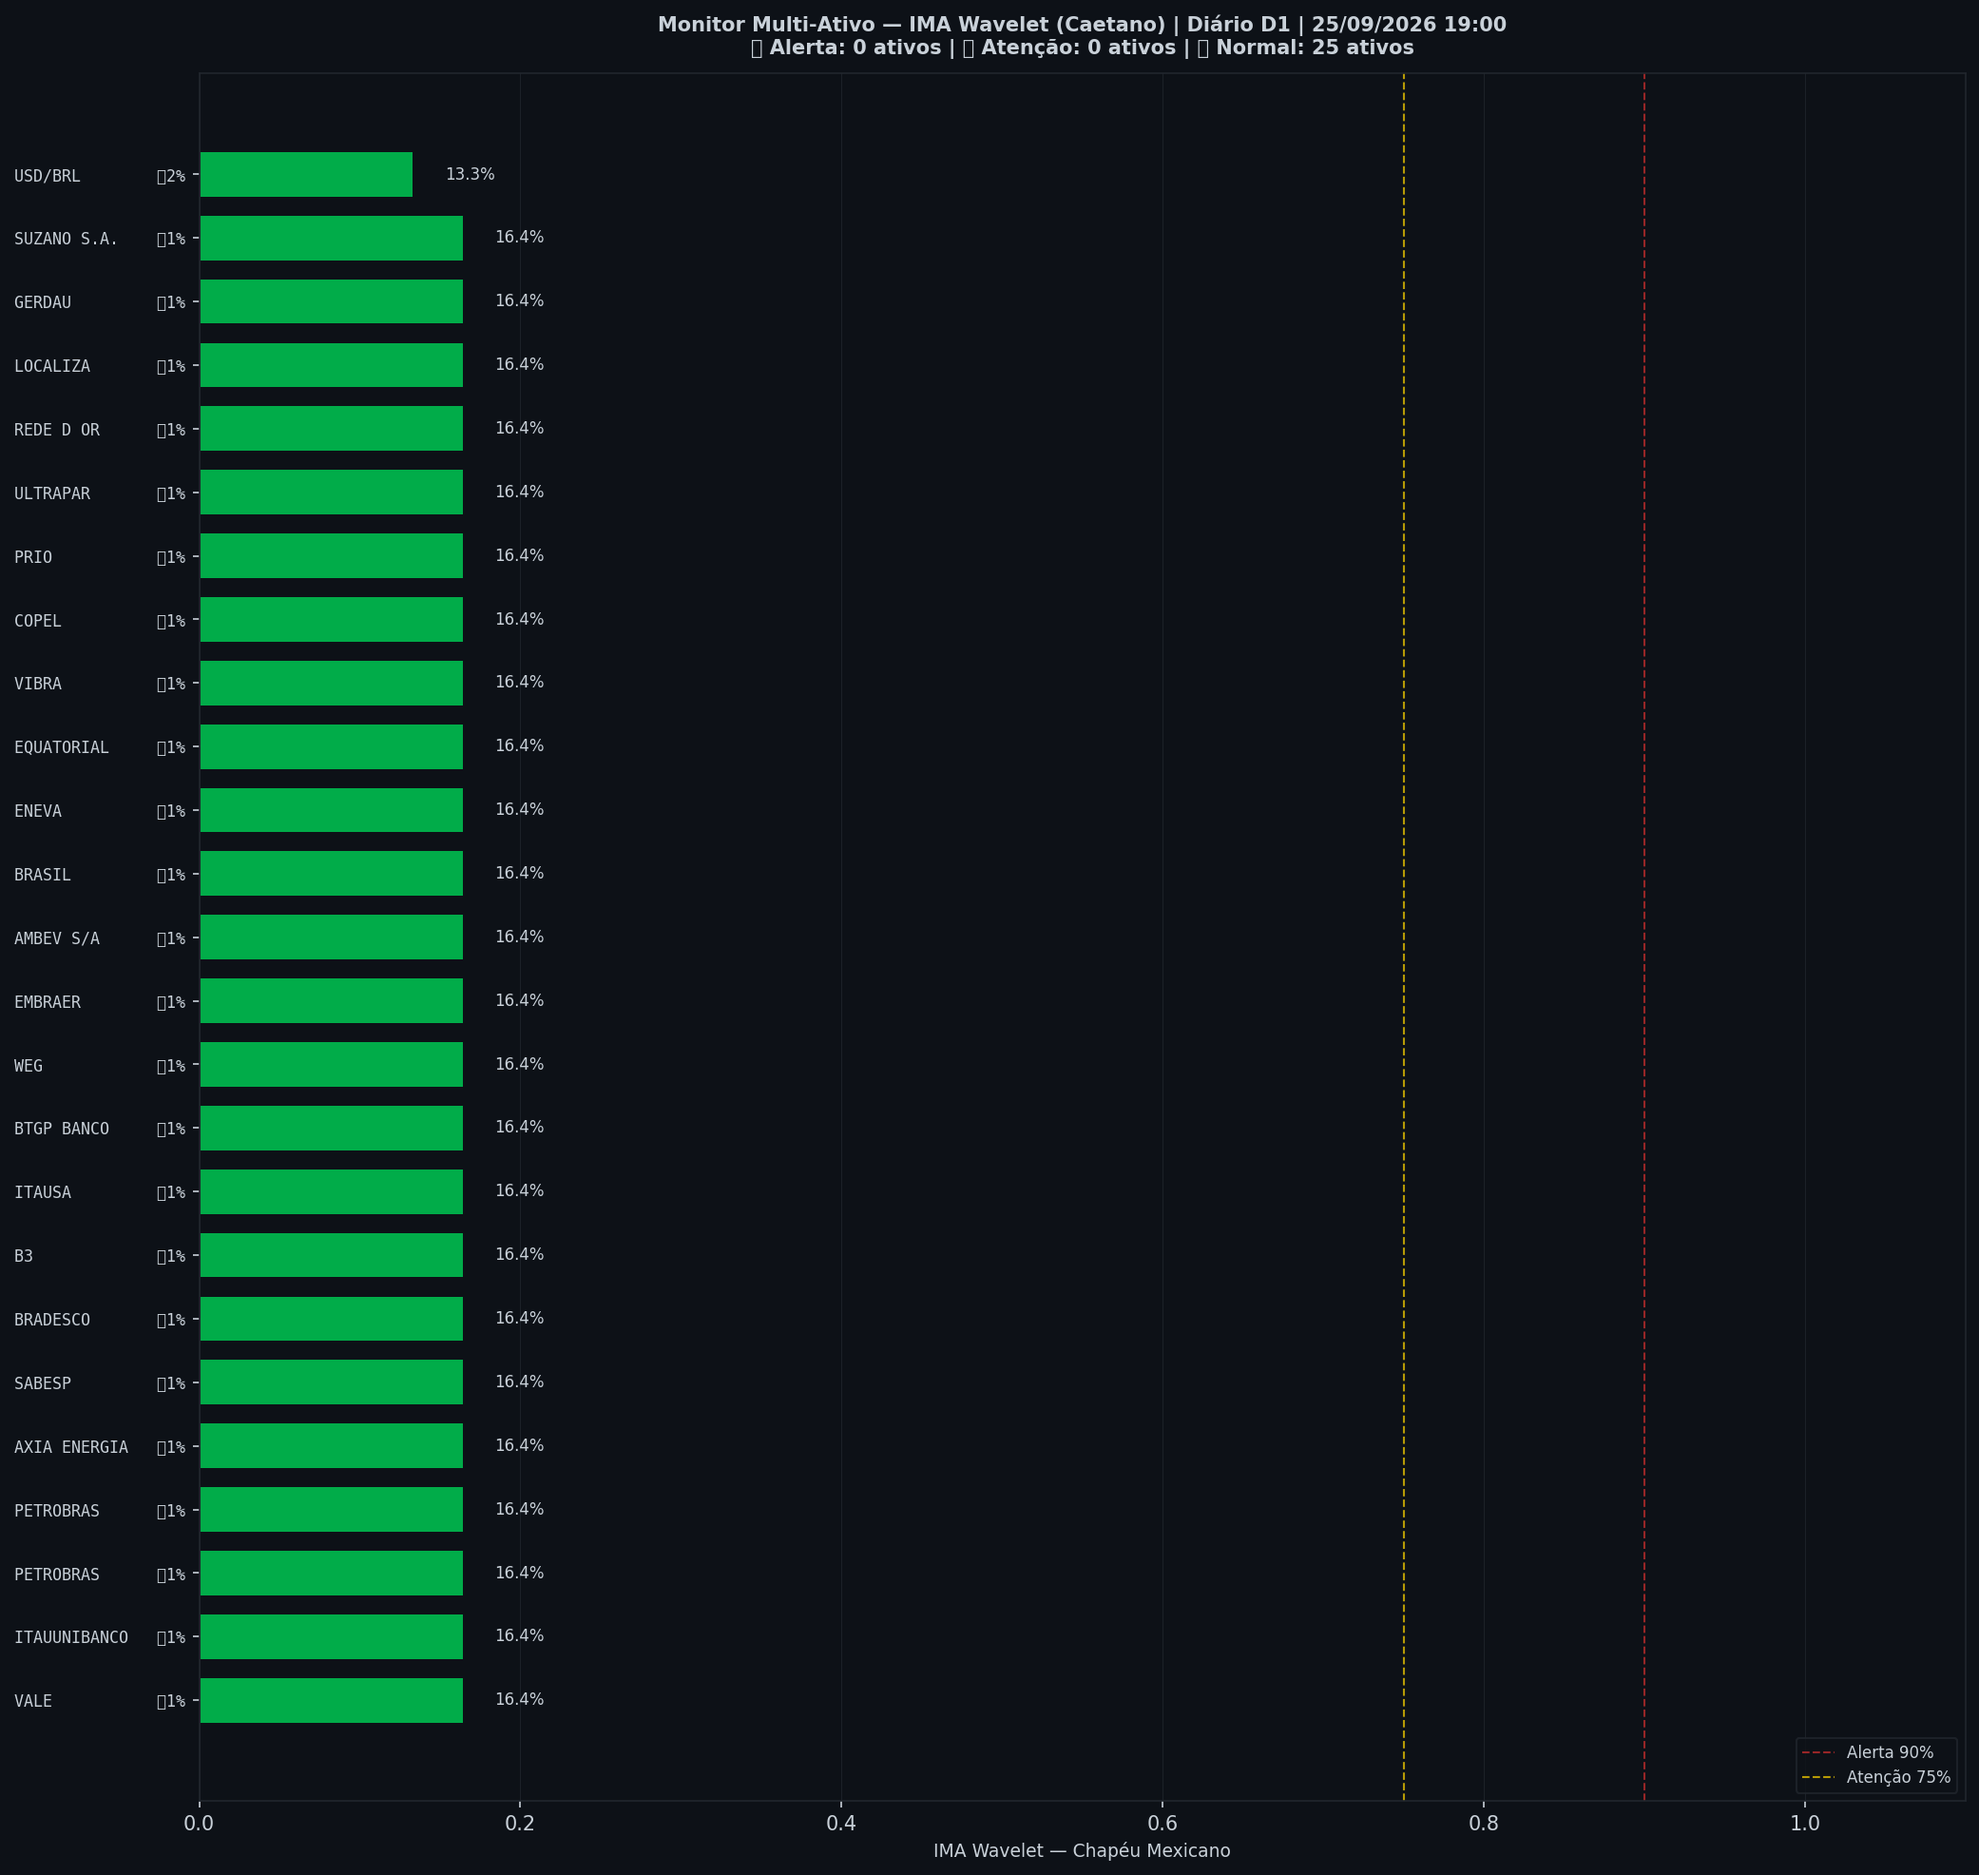
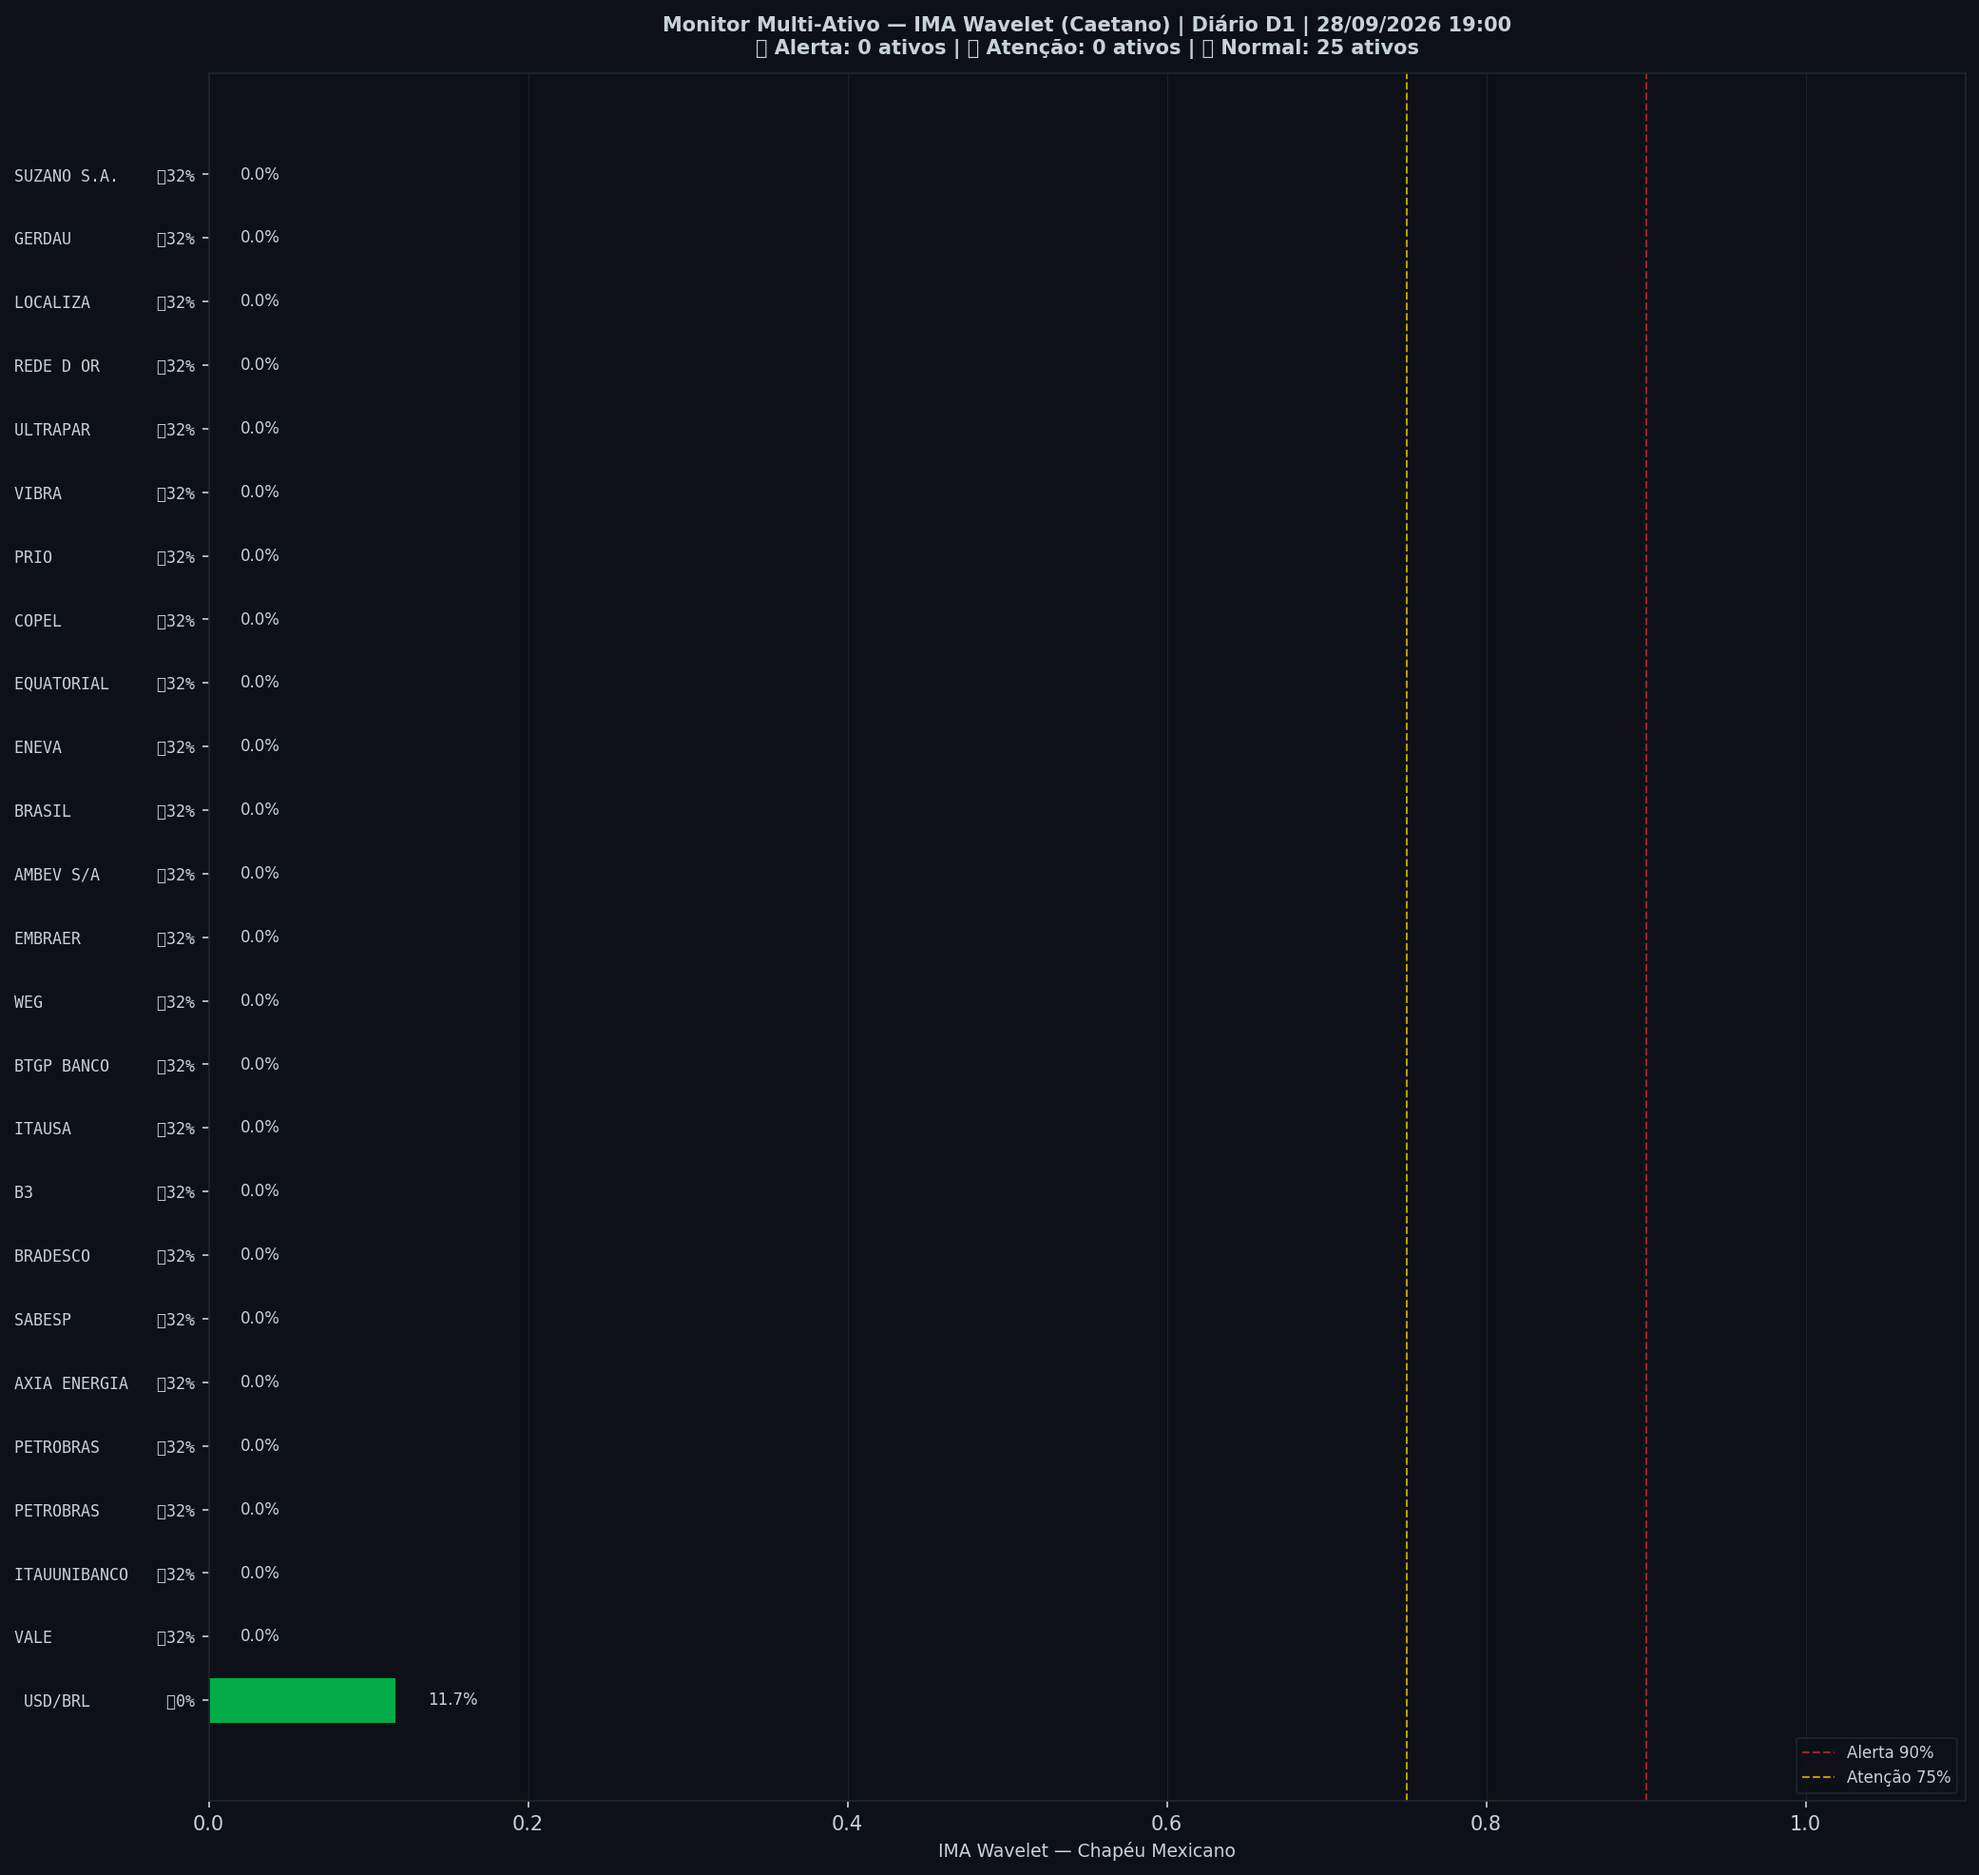
🤖 Auto: Sinal 28/09/2026 19:00

diff --git a/content/diario/2026-09-27.md b/content/diario/2026-09-27.md
@@ -1,0 +1,103 @@
+---
+title: "🟢 Diário 27/09/2026 — VERDE"
+date: 2026-09-28
+tags: [diario]
+---
+
+> [!success] 🟢 **VERDE** — Risco 0% · ＝ -0 p.p. vs leitura anterior
+> `░░░░░░░░░░░░░░░░░░░░`
+> Mercado sem sinais relevantes de estresse.
+
+
+| Indicador | Valor |
+|---|---|
+| 🔴 ζ Crash — severidade da queda em curso | **1%** |
+| 🔵 ζ Entrada — estrutura de fundo | 9% |
+| 🫧 LPPL DS-Confidence | 0% |
+| 📊 Ibovespa | 182.991 pts |
+
+![Gráfico do sinal](../graficos/sinal_diario.png)
+
+## Últimos 30 pregões
+
+| Data | Zona | Risco | IMA Crash | Entrada | LPPL |
+|---|---|---|---|---|---|
+| 2026-09-27 21:00 | 🟢 VERDE | **0%** | 1% | 9% | 0% |
+| 2026-09-24 21:00 | 🟢 VERDE | **1%** | 2% | 5% | 0% |
+| 2026-09-23 21:00 | 🟢 VERDE | **0%** | 0% | 4% | 0% |
+| 2026-09-22 21:00 | 🟢 VERDE | **0%** | 0% | 3% | 0% |
+| 2026-09-21 21:00 | 🟢 VERDE | **0%** | 0% | 3% | 0% |
+| 2026-09-20 21:00 | 🟢 VERDE | **1%** | 2% | 4% | 0% |
+| 2026-09-17 21:00 | 🟢 VERDE | **4%** | 7% | 3% | 0% |
+| 2026-09-16 21:00 | 🟢 VERDE | **9%** | 15% | 2% | 0% |
+| 2026-09-15 21:00 | 🟢 VERDE | **11%** | 18% | 2% | 0% |
+| 2026-09-14 21:00 | 🟢 VERDE | **37%** | 62% | 0% | 0% |
+| 2026-09-13 21:00 | 🟢 VERDE | **32%** | 53% | 0% | 0% |
+| 2026-09-10 21:00 | 🟢 VERDE | **30%** | 50% | 0% | 0% |
+| 2026-09-09 21:00 | 🟢 VERDE | **27%** | 45% | 0% | 0% |
+| 2026-09-08 21:00 | 🟢 VERDE | **22%** | 37% | 0% | 0% |
+| 2026-09-07 21:00 | 🟢 VERDE | **17%** | 28% | 0% | 0% |
+| 2026-09-03 21:00 | 🟢 VERDE | **6%** | 10% | 1% | 0% |
+| 2026-09-02 21:00 | 🟢 VERDE | **3%** | 5% | 5% | 0% |
+| 2026-09-01 21:00 | 🟢 VERDE | **8%** | 14% | 2% | 0% |
+| 2026-08-31 21:00 | 🟢 VERDE | **8%** | 12% | 0% | 0% |
+| 2026-08-30 21:00 | 🟢 VERDE | **8%** | 12% | 0% | 0% |
+| 2026-08-27 21:00 | 🟢 VERDE | **6%** | 9% | 0% | 0% |
+| 2026-08-26 21:00 | 🟢 VERDE | **4%** | 6% | 1% | 0% |
+| 2026-08-25 21:00 | 🟢 VERDE | **2%** | 4% | 6% | 0% |
+| 2026-08-24 21:00 | 🟢 VERDE | **0%** | 1% | 14% | 0% |
+| 2026-08-23 21:00 | 🟢 VERDE | **0%** | 0% | 21% | 0% |
+| 2026-08-20 21:00 | 🟢 VERDE | **0%** | 0% | 25% | 0% |
+| 2026-08-19 21:00 | 🟢 VERDE | **0%** | 0% | 27% | 0% |
+| 2026-08-18 21:00 | 🟢 VERDE | **0%** | 0% | 27% | 0% |
+| 2026-08-17 21:00 | 🟢 VERDE | **0%** | 0% | 26% | 0% |
+| 2026-08-16 21:00 | 🟢 VERDE | **0%** | 0% | 25% | 0% |
+
+## Monitor Multi-Ativo
+
+**0% dos ativos em tensão** (0🔴 0🟡) — quanto mais ativos disparam juntos, mais confiável o sinal.
+
+| Zona | Ativo | Setor | IMA Crash | IMA Entrada |
+|---|---|---|---|---|
+| 🟢 | **USD/BRL** | Câmbio | 11.7% | 0.0% |
+| 🟢 | **VALE** | Mineração | 0.0% | 32.0% |
+| 🟢 | **ITAUUNIBANCO** | Financeiro | 0.0% | 32.0% |
+| 🟢 | **PETROBRAS** | Petróleo | 0.0% | 32.0% |
+| 🟢 | **PETROBRAS** | Petróleo | 0.0% | 32.0% |
+| 🟢 | **AXIA ENERGIA** | Energia | 0.0% | 32.0% |
+| 🟢 | **SABESP** | Saneamento | 0.0% | 32.0% |
+| 🟢 | **BRADESCO** | Financeiro | 0.0% | 32.0% |
+| 🟢 | **B3** | Financeiro | 0.0% | 32.0% |
+| 🟢 | **ITAUSA** | Financeiro | 0.0% | 32.0% |
+| 🟢 | **BTGP BANCO** | Financeiro | 0.0% | 32.0% |
+| 🟢 | **WEG** | Industrial | 0.0% | 32.0% |
+| 🟢 | **EMBRAER** | Outros | 0.0% | 32.0% |
+| 🟢 | **AMBEV S/A** | Consumo | 0.0% | 32.0% |
+| 🟢 | **BRASIL** | Financeiro | 0.0% | 32.0% |
+| 🟢 | **ENEVA** | Energia | 0.0% | 32.0% |
+| 🟢 | **EQUATORIAL** | Energia | 0.0% | 32.0% |
+| 🟢 | **COPEL** | Energia | 0.0% | 32.0% |
+| 🟢 | **PRIO** | Petróleo | 0.0% | 32.0% |
+| 🟢 | **VIBRA** | Energia | 0.0% | 32.0% |
+| 🟢 | **ULTRAPAR** | Outros | 0.0% | 32.0% |
+| 🟢 | **REDE D OR** | Saúde | 0.0% | 32.0% |
+| 🟢 | **LOCALIZA** | Aluguel | 0.0% | 32.0% |
+| 🟢 | **GERDAU** | Siderurgia | 0.0% | 32.0% |
+| 🟢 | **SUZANO S.A.** | Papel/Celulose | 0.0% | 32.0% |
+
+![Monitor multi-ativo](../graficos/multi_diario.png)
+
+*Página atualizada em 28/09/2026 19:00 BRT (leitura da barra de 2026-09-27 BRT).*
+
+> [!info]- Como interpretar (clique para expandir)
+> - **ζ Crash**: fração dos coeficientes wavelet acima do corte (Caetano & Yoneyama 2009). Escala absoluta: ζ=0,90 = 90% dos coeficientes anômalos — historicamente, quedas com ζ≥0,90 foram mais fundas e mais longas. **Mede a severidade do movimento em curso, não prevê o início da queda.**
+> - **ζ Entrada**: coeficientes negativos além do corte — estrutura de fundo, possível região de compra.
+> - **LPPL DS-Confidence**: fração de janelas (60–504 pregões) em que o modelo de bolha de Sornette produz um ajuste válido. 30% já é relevante; acima de 50% é forte evidência de estrutura de bolha.
+> - **Zonas com histerese**: o sinal só muda de zona ao cruzar o limiar de entrada, e só volta ao cruzar o de saída — evita flip-flop diário.
+
+
+---
+*Sinal de Crise B3 v4 · IMA Wavelet ([Caetano & Yoneyama, Physica-A 2007](https://doi.org/10.1016/j.physa.2007.03.054)) + LPPL DS-Confidence (Sornette, ETH-Zurich) · [Metodologia](metodologia) · [Histórico](historico)*
+
+> [!quote]- Aviso
+> Estudo acadêmico. Não constitui recomendação de investimento.

diff --git a/content/index.md b/content/index.md
@@ -8,19 +8,19 @@ tags: [home]
 
 Monitoramento diário e intraday do Ibovespa — **IMA Wavelet** (Prof. Marco Antonio Leonel Caetano, ITA/INSPER) + **LPPL DS-Confidence** (Prof. Didier Sornette, ETH-Zurich).
 
-*Última atualização: 28/09/2026 17:31 BRT · ^BVSP · Intraday 15min · v4*
+*Última atualização: 28/09/2026 19:00 BRT · ^BVSP · Diário D1 · v4*
 
-> [!success] 🟢 **VERDE** — Risco 0% · ＝ +0 p.p. vs leitura anterior
+> [!success] 🟢 **VERDE** — Risco 0% · ＝ -0 p.p. vs leitura anterior
 > `░░░░░░░░░░░░░░░░░░░░`
 > Mercado sem sinais relevantes de estresse.
 
 
 | Indicador | Valor |
 |---|---|
-| 🔴 ζ Crash — severidade da queda em curso | **0%** |
-| 🔵 ζ Entrada — estrutura de fundo | 1% |
+| 🔴 ζ Crash — severidade da queda em curso | **1%** |
+| 🔵 ζ Entrada — estrutura de fundo | 9% |
 | 🫧 LPPL DS-Confidence | 0% |
-| 📊 Ibovespa | 183.090 pts |
+| 📊 Ibovespa | 182.991 pts |
 
 **Multi-ativo:** 0% em tensão (0🔴 0🟡 de 25 ativos)
 
@@ -32,8 +32,13 @@ Monitoramento diário e intraday do Ibovespa — **IMA Wavelet** (Prof. Marco An
 
 | Data | Zona | Risco | IMA | LPPL |
 |---|---|---|---|---|
-| [28 Sep 2026](diario/2026-09-28) | 🟢 VERDE | **0%** | 0% | 0% |
-| [25 Sep 2026](diario/2026-09-25) | 🟢 VERDE | **0%** | 0% | 0% |
+| [27 Sep 2026](diario/2026-09-27) | 🟢 VERDE | **0%** | 1% | 0% |
+| [24 Sep 2026](diario/2026-09-24) | 🟢 VERDE | **1%** | 2% | 0% |
+| [23 Sep 2026](diario/2026-09-23) | 🟢 VERDE | **0%** | 0% | 0% |
+| [22 Sep 2026](diario/2026-09-22) | 🟢 VERDE | **0%** | 0% | 0% |
+| [21 Sep 2026](diario/2026-09-21) | 🟢 VERDE | **0%** | 0% | 0% |
+| [20 Sep 2026](diario/2026-09-20) | 🟢 VERDE | **1%** | 2% | 0% |
+| [17 Sep 2026](diario/2026-09-17) | 🟢 VERDE | **4%** | 7% | 0% |
 
 ## Navegação
 

diff --git a/content/historico.md b/content/historico.md
@@ -7,6 +7,7 @@ tags: [historico]
 
 | Data | Modo | Zona | Risco | IMA | LPPL |
 |---|---|---|---|---|---|
+| 2026-09-27 | diario | 🟢 VERDE | 0% | 1% | 0% |
 | 2026-09-28 16:45 | intraday | 🟢 VERDE | 0% | 0% | 0% |
 | 2026-09-28 16:30 | intraday | 🟢 VERDE | 0% | 0% | 0% |
 | 2026-09-28 16:15 | intraday | 🟢 VERDE | 0% | 0% | 0% |
